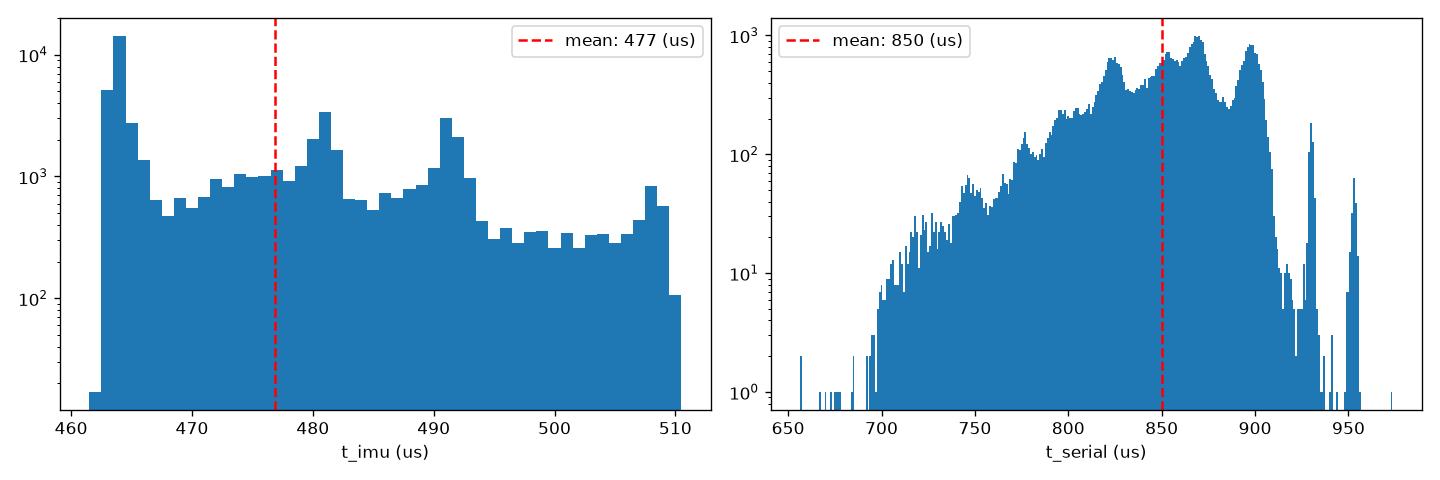
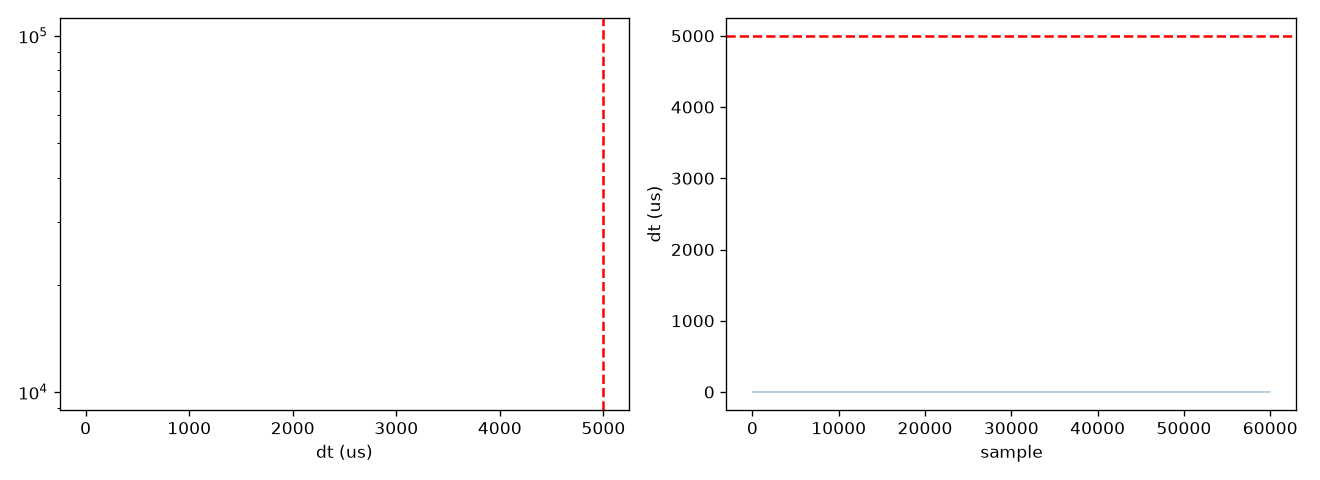
added jitter plots

diff --git a/analysis/jitter/plot_jitter.py b/analysis/jitter/plot_jitter.py
@@ -1,34 +1,45 @@
 import numpy as np
 import matplotlib.pyplot as plt
 import arduino_logger as al
+import pandas as pd
 
 N = 10000
 
-prefix = "jitter"
-header = "seq, t_us, dt_us, work_us, missed"
+# prefix = "jitter"
+# header = "seq, t_us, dt_us, work_us, missed"
 
-csv_filepath = al.collect_serial_data(header=header, file_prefix=prefix, num_samples=N)
+# csv_filepath = al.collect_serial_data(header=header, file_prefix=prefix, num_samples=N)
 
-d = np.loadtxt(f"{csv_filepath}", delimiter=',', skiprows=1)
-seq, t, dt, work, missed = d.T
-dt = dt[1:] # First sample is always 0, so ignore it
+csv_filepath = 'data/IMU_Reading_Times/IMU_reading_times_I2C_Optimized_Burst_07-08-2026_18-53-38.csv'
 
-print(f"n={len(dt)}  mean={dt.mean():.1f}  sd={dt.std():.1f}")
-print(f"min={dt.min()}  max={dt.max()}  p99={np.percentile(dt,99):.0f}")
-print(f"missed deadlines: {missed[-1]}")
-print(f"gaps in seq: {np.sum(np.diff(seq) != 1)}")
 
-fig, ax = plt.subplots(1, 2, figsize=(11,4))
+df = pd.read_csv(csv_filepath, skipinitialspace=True)
 
-ax[0].hist(dt, bins=np.arange(dt.min()-0.5, dt.max()+1.5), log=True)
-ax[0].axvline(5000, color='r', ls='--')
+# Keep dt in microseconds (us) without redundant offset subtraction
+dt = np.diff(df['t_us'])
+
+print(f"n={len(dt)}  mean={dt.mean():.1f} us  sd={dt.std():.1f} us")
+print(f"min={dt.min()} us  max={dt.max()} us  p99={np.percentile(dt, 99):.0f} us")
+
+fig, ax = plt.subplots(1, 2, figsize=(11, 4))
+
+# Histogram binned by 1 us increments around your data
+bins = np.arange(dt.min() - 0.5, dt.max() + 1.5, 1)
+ax[0].hist(dt, bins=bins, log=True, edgecolor='black')
+ax[0].axvline(5000, color='r', ls='--', label='Target 200Hz (5000 us)')
 ax[0].set_xlabel("dt (us)")
+ax[0].set_ylabel("Count (log)")
+ax[0].legend()
+ax[0].grid(True, linestyle='--', alpha=0.5)
 
+# Time series jitter plot
 ax[1].plot(dt, lw=0.4)
-ax[1].axhline(5000, color='r', ls='--')
-ax[1].set_xlabel("sample")
+ax[1].axhline(5000, color='r', ls='--', label='Target 5000 us')
+ax[1].set_xlabel("Sample")
 ax[1].set_ylabel("dt (us)")
+ax[1].legend()
+ax[1].grid(True, linestyle='--', alpha=0.5)
 
 plt.tight_layout()
-plt.savefig(f"{csv_filepath.replace('.csv', '.png')}", dpi=120)
+plt.savefig(f"{csv_filepath.replace('.csv', '_jitter.png')}", dpi=120)
 plt.show()
